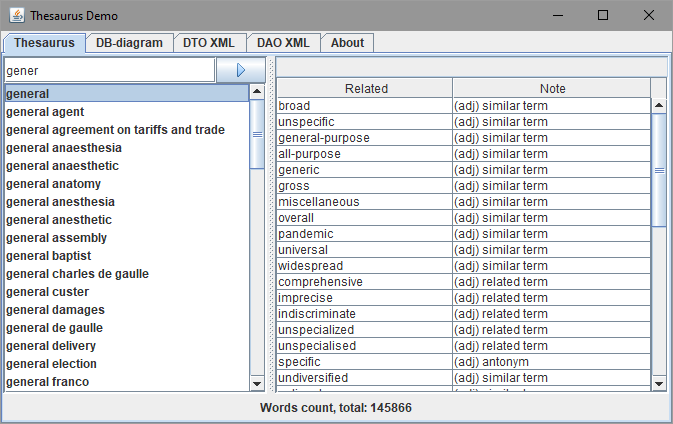
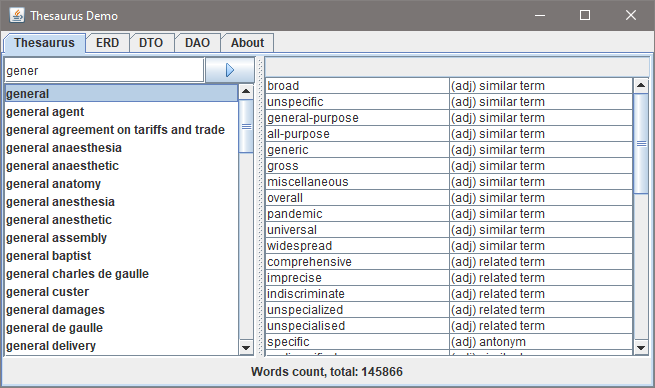
adapted for sdm 1.198

diff --git a/src/sdm/thesaurus/ThesaurusApp.java b/src/sdm/thesaurus/ThesaurusApp.java
@@ -20,16 +20,17 @@ import com.sqldalmaker.DataStoreManager;
 
 public class ThesaurusApp {
 
-	private JFrame frame;
+    private JFrame frame;
 
-	public static void main(String[] args) {
-		EventQueue.invokeLater(new Runnable() {
-			public void run() {
-				try {
-					DataStoreManager.init();
+    public static void main(String[] args) {
+        EventQueue.invokeLater(new Runnable() {
+            @Override
+            public void run() {
+                try {
+                    DataStoreManager.init();
 //					try { // https://docs.oracle.com/javase/tutorial/uiswing/lookandfeel/nimbus.html
 //						for (LookAndFeelInfo info : UIManager.getInstalledLookAndFeels()) {
-							// System.out.println(info.getName());
+                    // System.out.println(info.getName());
 //							if ("Windows".equals(info.getName())) {
 //								UIManager.setLookAndFeel(info.getClassName());
 //								break;
@@ -37,84 +38,84 @@ public class ThesaurusApp {
 //						}
 //					} catch (Exception e) {
 //					}
-					ThesaurusApp window = new ThesaurusApp();
-					window.frame.setVisible(true);
-				} catch (Exception e) {
-					e.printStackTrace();
-					InternalHelpers.showError(null, e);
-				}
-			}
-		});
-	}
+                    ThesaurusApp window = new ThesaurusApp();
+                    window.frame.setVisible(true);
+                } catch (Exception e) {
+                    //e.printStackTrace();
+                    InternalHelpers.showError(null, e);
+                }
+            }
+        });
+    }
 
-	public ThesaurusApp() {
-		initialize();
-	}
+    public ThesaurusApp() {
+        initialize();
+    }
 
-	private void initialize() {
-		frame = new JFrame();
-		frame.setTitle("Thesaurus Demo");
-		frame.setBounds(100, 100, 800, 600);
-		frame.setDefaultCloseOperation(JFrame.EXIT_ON_CLOSE);
-		frame.setLocationRelativeTo(null); // place a window in the center of
-											// the screen
-		UIManager.LookAndFeelInfo[] looks = UIManager.getInstalledLookAndFeels();
-		for (UIManager.LookAndFeelInfo look : looks) {
-			System.out.println(look.getClassName());
-		}
+    private void initialize() {
+        frame = new JFrame();
+        frame.setTitle("Thesaurus Demo");
+        frame.setBounds(100, 100, 800, 600);
+        frame.setDefaultCloseOperation(JFrame.EXIT_ON_CLOSE);
+        frame.setLocationRelativeTo(null); // place a window in the center of
+        // the screen
+        UIManager.LookAndFeelInfo[] looks = UIManager.getInstalledLookAndFeels();
+        for (UIManager.LookAndFeelInfo look : looks) {
+            System.out.println(look.getClassName());
+        }
 
-		JTabbedPane tabbedPane = new JTabbedPane(JTabbedPane.TOP);
-		frame.getContentPane().add(tabbedPane, BorderLayout.CENTER);
+        JTabbedPane tabbedPane = new JTabbedPane(JTabbedPane.TOP);
+        frame.getContentPane().add(tabbedPane, BorderLayout.CENTER);
 
-		final MainPanel mainPanel = new MainPanel();
-		tabbedPane.addTab("Thesaurus", null, mainPanel, null);
+        final MainPanel mainPanel = new MainPanel();
+        tabbedPane.addTab("Thesaurus", null, mainPanel, null);
 
-		JScrollPane scrollPane_1 = new JScrollPane();
-		tabbedPane.addTab("ERD", null, scrollPane_1, null);
+        JScrollPane scrollPane_1 = new JScrollPane();
+        tabbedPane.addTab("ERD", null, scrollPane_1, null);
 
-		JLabel label = new JLabel("");
-		label.setVerticalAlignment(SwingConstants.TOP);
-		label.setIcon(new ImageIcon(Objects.requireNonNull(ThesaurusApp.class.getResource("/sdm/thesaurus/erd.png"))));
-		scrollPane_1.setViewportView(label);
+        JLabel label = new JLabel("");
+        label.setVerticalAlignment(SwingConstants.TOP);
+        label.setIcon(new ImageIcon(Objects.requireNonNull(ThesaurusApp.class.getResource("/sdm/thesaurus/erd.png"))));
+        scrollPane_1.setViewportView(label);
 
-		JScrollPane scrollPane_2 = new JScrollPane();
-		tabbedPane.addTab("DTO", null, scrollPane_2, null);
+        JScrollPane scrollPane_2 = new JScrollPane();
+        tabbedPane.addTab("DTO", null, scrollPane_2, null);
 
-		JTextPane textPane_DTO = new JTextPane();
-		scrollPane_2.setViewportView(textPane_DTO);
+        final JTextPane textPane_DTO = new JTextPane();
+        scrollPane_2.setViewportView(textPane_DTO);
 
-		JScrollPane scrollPane_3 = new JScrollPane();
-		tabbedPane.addTab("DAO", null, scrollPane_3, null);
+        JScrollPane scrollPane_3 = new JScrollPane();
+        tabbedPane.addTab("DAO", null, scrollPane_3, null);
 
-		JTextArea textArea_DAO = new JTextArea();
-		scrollPane_3.setViewportView(textArea_DAO);
+        final JTextArea textArea_DAO = new JTextArea();
+        scrollPane_3.setViewportView(textArea_DAO);
 
-		JScrollPane scrollPane = new JScrollPane();
-		tabbedPane.addTab("About", null, scrollPane, null);
+        JScrollPane scrollPane = new JScrollPane();
+        tabbedPane.addTab("About", null, scrollPane, null);
 
-		final JTextPane textPane_About = new JTextPane();
-		scrollPane.setViewportView(textPane_About);
+        final JTextPane textPane_About = new JTextPane();
+        scrollPane.setViewportView(textPane_About);
 
-		frame.addWindowListener(new WindowAdapter() {
-			@Override
-			public void windowOpened(WindowEvent e) {
-				try {
-					String dto = InternalHelpers.readFromJARFile(InternalHelpers.getConfigFileName("dto.xml"));
-					textPane_DTO.setText(dto);
-					textPane_DTO.setEditable(false);
-					String dao = InternalHelpers.readFromJARFile(InternalHelpers.getConfigFileName("ThesaurusDao.xml"));
-					textArea_DAO.setText(dao);
-					textArea_DAO.setEditable(false);
-					String about = InternalHelpers.readFromJARFile("README_th_en_US_v2.txt");
-					textPane_About.setText(about);
-					textPane_About.setEditable(false);
-					mainPanel.updateWordsCount();
-				} catch (Exception e1) {
-					e1.printStackTrace();
-					InternalHelpers.showError(frame, e1);
-				}
-			}
-		});
-	}
+        frame.addWindowListener(new WindowAdapter() {
+            @Override
+            public void windowOpened(WindowEvent e) {
+                try {
+                    String dto = InternalHelpers.readFromJARFile(InternalHelpers.getConfigFileName("dto.xml"));
+                    textPane_DTO.setText(dto);
+                    textPane_DTO.setEditable(false);
+                    String dao = InternalHelpers.readFromJARFile(InternalHelpers.getConfigFileName("ThesaurusDao.xml"));
+                    textArea_DAO.setText(dao);
+                    textArea_DAO.setEditable(false);
+                    String about = InternalHelpers.readFromJARFile("README_th_en_US_v2.txt");
+                    textPane_About.setText(about);
+                    textPane_About.setEditable(false);
+                    mainPanel.updateWordsCount();
+                } catch (Exception e1) {
+                    // e1.printStackTrace();
+                    InternalHelpers.showError(frame, e1);
+                }
+            }
+        });
+    }
 
 }
